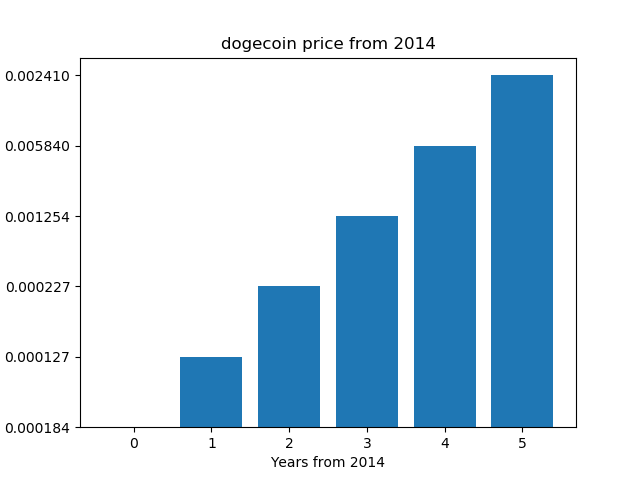
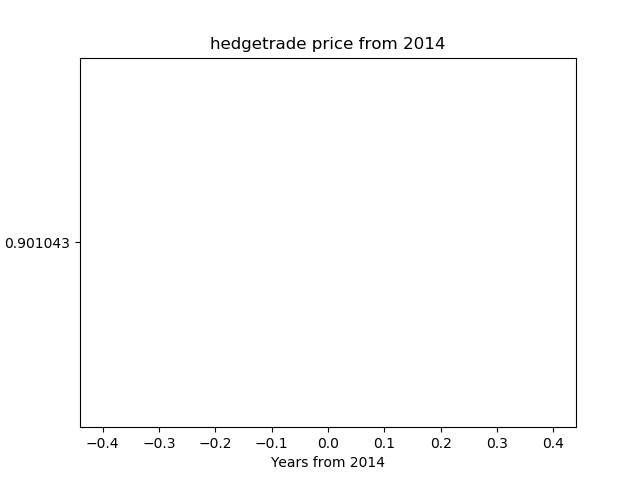
first commit

diff --git a/example.py b/example.py
@@ -10,7 +10,7 @@ from time import gmtime, strftime
 import matplotlib.pyplot as plt
 
 enddate = strftime("%Y%m%d", gmtime())
-r  = requests.get("https://coinmarketcap.com/currencies/dogecoin/historical-data/?start=20140101&end={0}".format(enddate))
+r  = requests.get("https://coinmarketcap.com/currencies/hedgetrade/historical-data/?start=20140101&end={0}".format(enddate))
 data = r.text
 
 soup = BeautifulSoup(data, "html.parser")
@@ -37,7 +37,7 @@ print(prices)
 
 x = list(range(0, len(prices)))
 
-plt.title('dogecoin price from 2014')
+plt.title('hedgetrade price from 2014')
 plt.ylabel('Price in USD')
 plt.xlabel('Years from 2014')
 plt.bar(x, prices)

diff --git a/README.md b/README.md
@@ -1,6 +1,6 @@
-# dogecoin price chart 
+# hedgetrade price chart 
 
-dogecoin price chart (matplotlib, python)
+hedgetrade price chart (matplotlib, python)
 
 https://pythonprogramminglanguage.com
 
